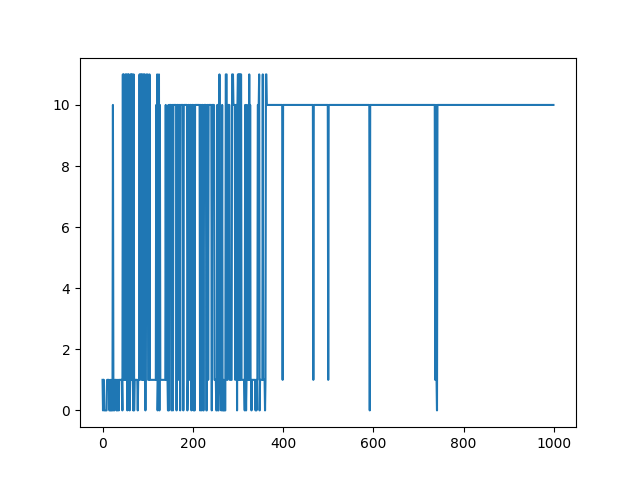
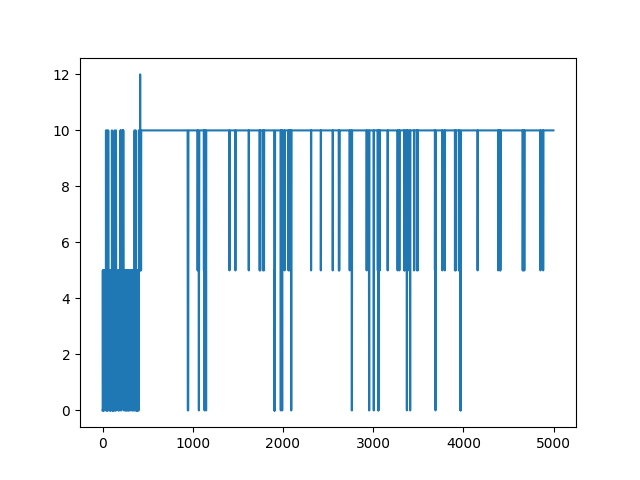
final qtable

diff --git a/qtable.py b/qtable.py
@@ -1,16 +1,16 @@
 import numpy as np , random , copy
+from base import Action
 
 class Game():
-    wall_score = -0.5
-    outOfRange_score = -0.8
-    base_score = +0.2
-    step_score = -0.1
-
-    carrying = False
+    wall_score = -1.25
+    outOfRange_score = -1.5
+    base_score = +1
+    step_score = -1
 
     def __init__(self ,map , position):
         self.map = map
         self.x , self.y = position
+        self.carrying =False
 
     def play(self ,action):
         newx , newy  = 0,0
@@ -29,9 +29,9 @@ class Game():
 
         if self.carrying :
             if (newx < 0) or (newx >= len(self.map)) or (newy < 0) or (newy >= len(self.map)):
-                return ((len(self.map) * self.x) + self.y , self.outOfRange_score , False , 0)
+                return ((len(self.map) * self.x) + self.y + len(self.map) * len(self.map), self.outOfRange_score , False , 0)
             elif self.map[newx][newy] == '*':
-                return ((len(self.map) * self.x) + self.y , self.wall_score , False , 0)
+                return ((len(self.map) * self.x) + self.y + len(self.map) * len(self.map), self.wall_score , False , 0)
             elif self.map[newx][newy] == 'a':
                 self.carrying = False
                 self.x = newx
@@ -40,7 +40,7 @@ class Game():
             else:
                 self.x = newx
                 self.y = newy
-                return ((len(self.map) * self.x) + self.y , self.step_score , False , 0) 
+                return ((len(self.map) * self.x) + self.y + len(self.map) * len(self.map), self.step_score , False , 0) 
             
         else :
             if (newx < 0) or (newx >= len(self.map)) or (newy < 0) or (newy >= len(self.map)):
@@ -53,7 +53,7 @@ class Game():
                 self.carrying = True
                 self.x = newx
                 self.y = newy
-                return ((len(self.map) * self.x) + self.y , self.getScore(n) , False , self.getScore(n))
+                return ((len(self.map) * self.x) + self.y + len(self.map) * len(self.map), self.getScore(n) , False , self.getScore(n))
             else:
                 self.x = newx
                 self.y = newy
@@ -79,13 +79,13 @@ class Game():
             return 10
 
 class Qtable():
-    total_episodes = 1000      # Total episodes
-    learning_rate = 0.8           # Learning rate
-    gamma = 0.95                  # Discounting rate
-    epsilon = 1.0                 # Exploration rate
-    max_epsilon = 1.0             # Exploration probability at start
-    min_epsilon = 0.01            # Minimum exploration probability 
-    decay_rate = 0.01             # Exponential decay rate for exploration prob
+    total_episodes = 50000         # Total episodes
+    learning_rate = 0.9            # Learning rate
+    gamma = 0.65                   # Discounting rate
+    epsilon = 1.0                  # Exploration rate
+    max_epsilon = 1.0              # Exploration probability at start
+    min_epsilon = 0.01             # Minimum exploration probability 
+    decay_rate = 0.01              # Exponential decay rate for exploration prob
 
     rewards = []
     gem_rewards = []
@@ -96,7 +96,7 @@ class Qtable():
         self.position = position 
         state_size = len(map) * len(map)
         action_size = 4
-        self.qtable = np.zeros((state_size, action_size))
+        self.qtable = np.zeros((state_size * 2, action_size))
 
     def train(self):
         for episode in range(self.total_episodes):
@@ -135,3 +135,23 @@ class Qtable():
             self.gem_rewards.append(total_gem_score)
             self.epsilon = self.min_epsilon + (self.max_epsilon - self.min_epsilon)*np.exp(-self.decay_rate*episode) 
             self.rewards.append(total_rewards)
+
+    def get_seq(self):
+        result = []
+        x , y = self.position
+        state = (len(self.map) * x) + y
+        game = Game(copy.deepcopy(self.map) , self.position)
+        for i in range(self.max_steps):
+            action = np.argmax(self.qtable[state,:])
+            state, reward, done  , gem = game.play(action)
+            if action == 0:
+                result.append(Action.UP)
+            elif action == 1:
+                result.append(Action.DOWN)
+            elif action == 2:
+                result.append(Action.LEFT)
+            else:
+                result.append(Action.RIGHT)
+        return result
+
+

diff --git a/agent.py b/agent.py
@@ -1,12 +1,13 @@
 import random
 from base import BaseAgent, TurnData, Action
-from qtable import qtable
+from qtable import Qtable
 import matplotlib.pyplot as plt
 import numpy as np
 class Agent(BaseAgent):
 
     def __init__(self):
         BaseAgent.__init__(self)
+        self.result =[]
         print(f"MY NAME: {self.name}")
         print(f"PLAYER COUNT: {self.agent_count}")
         print(f"GRID SIZE: {self.grid_size}")
@@ -32,13 +33,19 @@ class Agent(BaseAgent):
         # if action_name == "R":
         #     return Action.RIGHT
         # return random.choice(list(Action))
-        table = qtable.Qtable(turn_data.map , self.max_turns , agent.position)
-        table.train()
-        print(table.gem_rewards)
-        print(table.qtable)
+        if not self.result:
+            table = Qtable(turn_data.map , self.max_turns , agent.position)
+            table.train()
+            #print(table.gem_rewards)
+            print(table.qtable)
+            self.result = table.get_seq()
+            #print(res)
+        
+        return self.result.pop(0)
 
-        plt.plot(table.gem_rewards)
-        plt.savefig('test_image.png')
+
+        #plt.plot(table.gem_rewards)
+        #plt.savefig('test_image.png')
 
 if __name__ == '__main__':
     winner = Agent().play()
